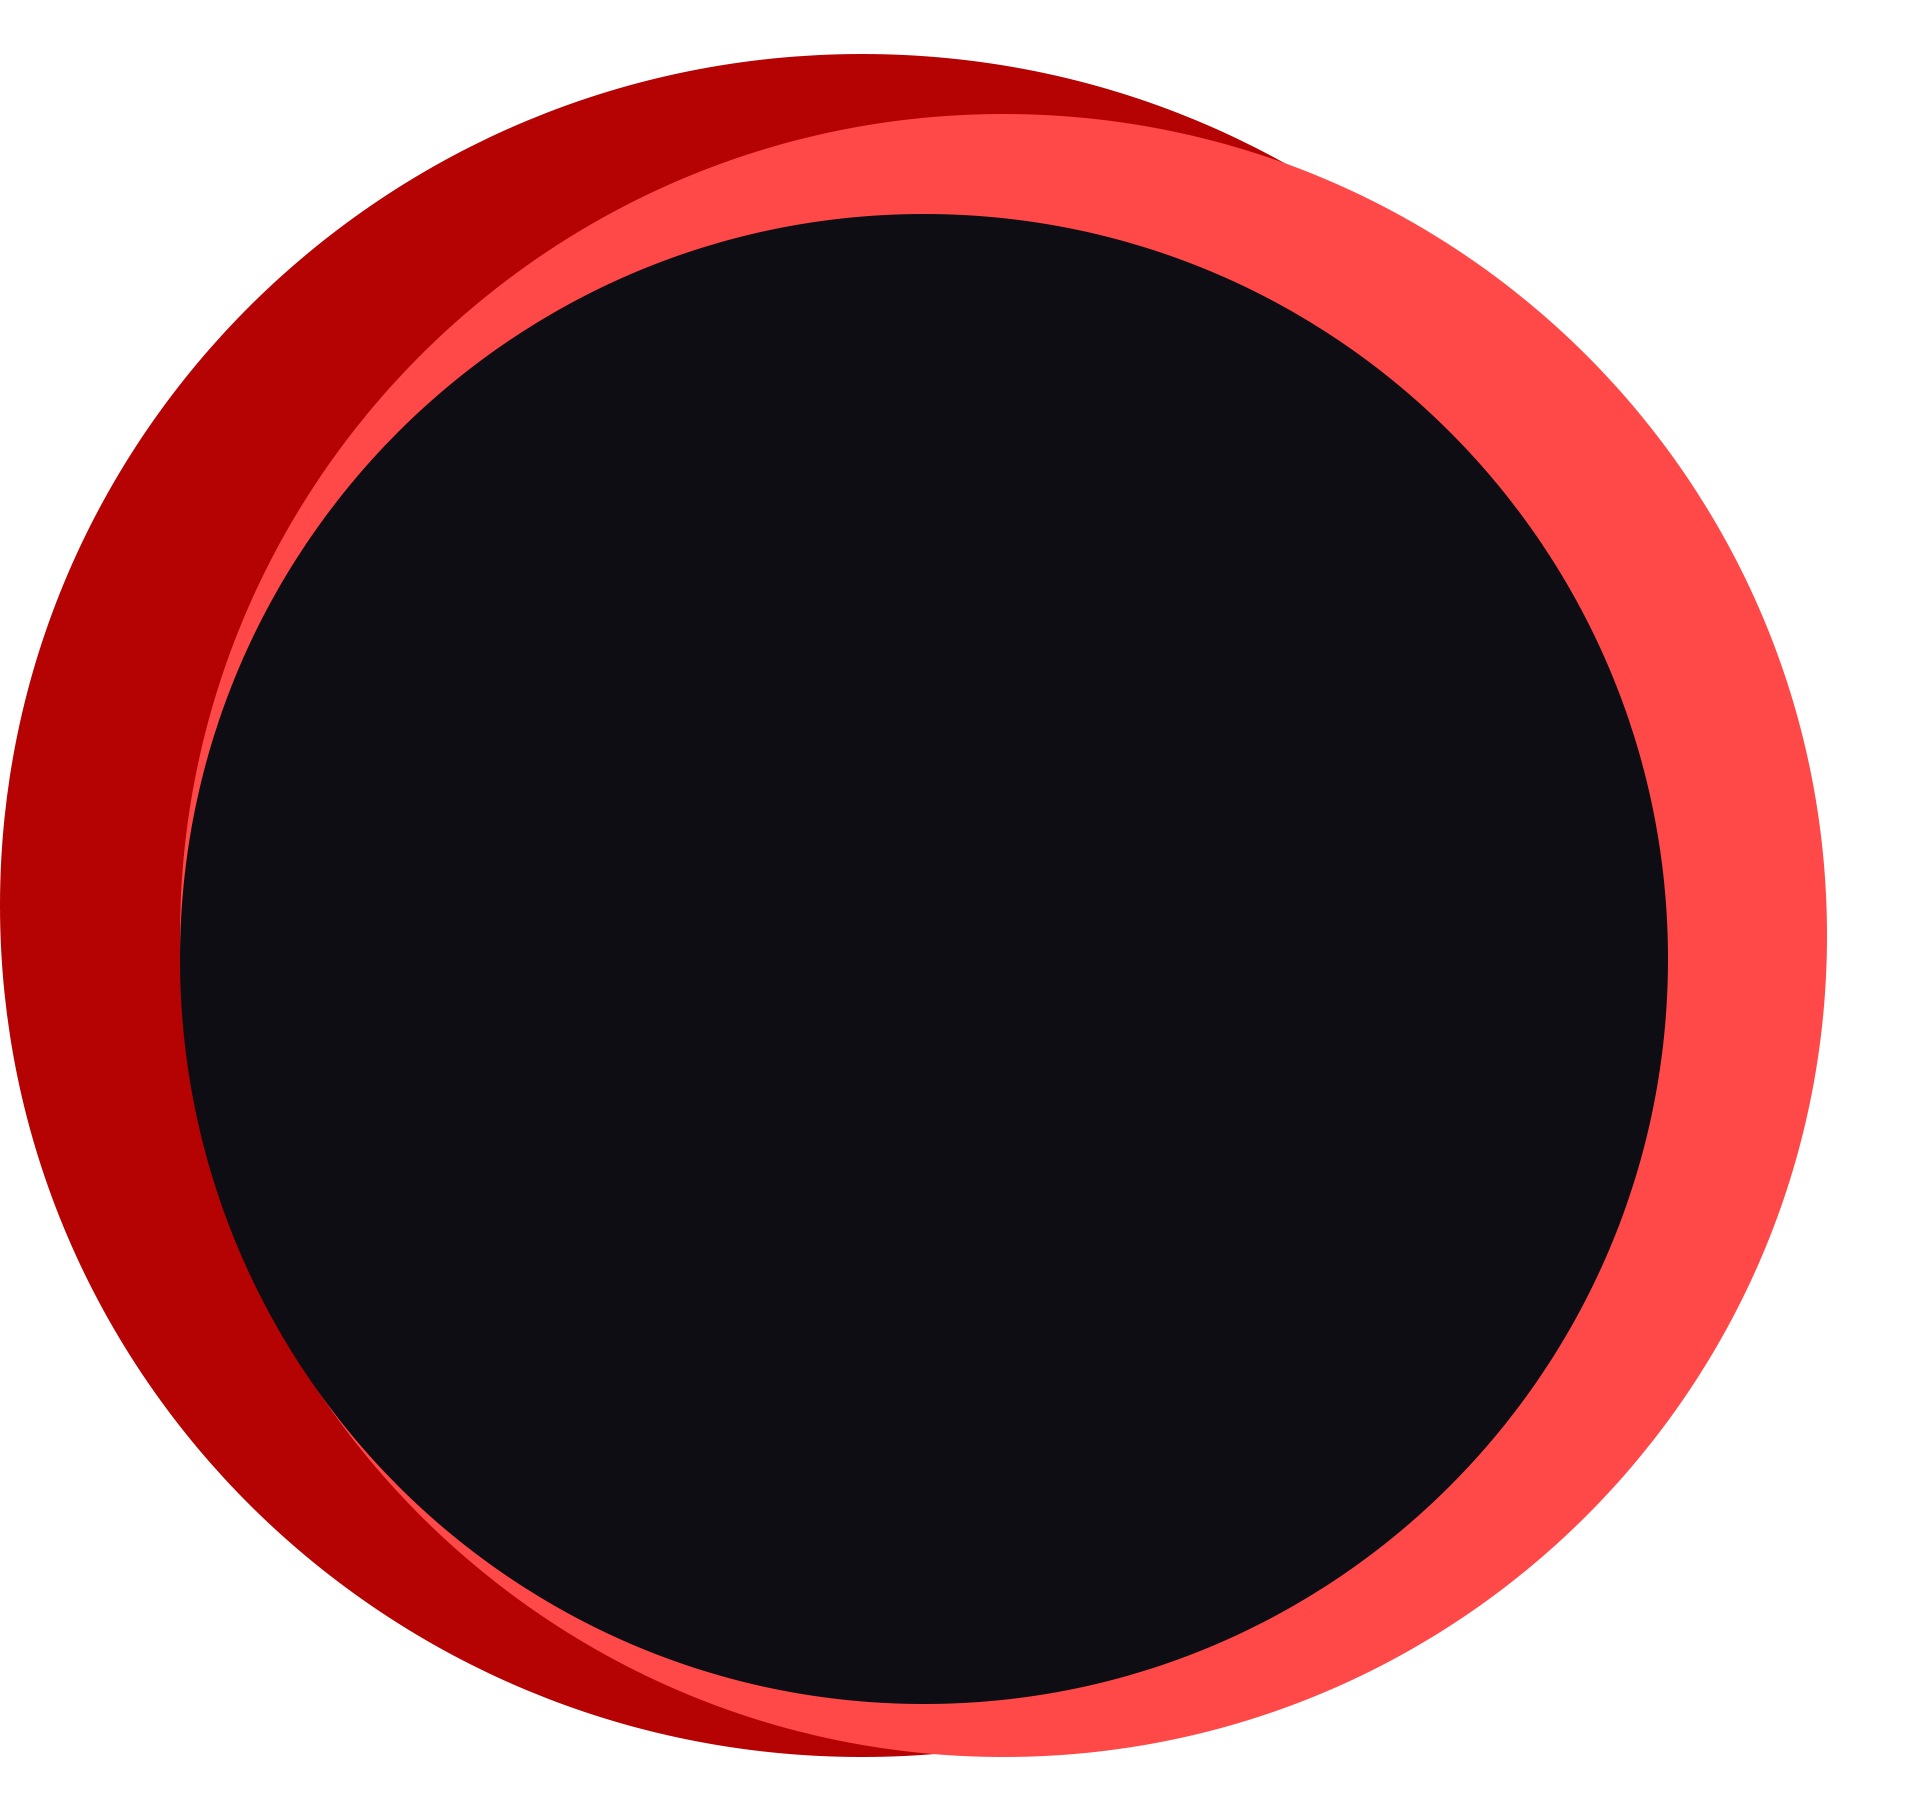
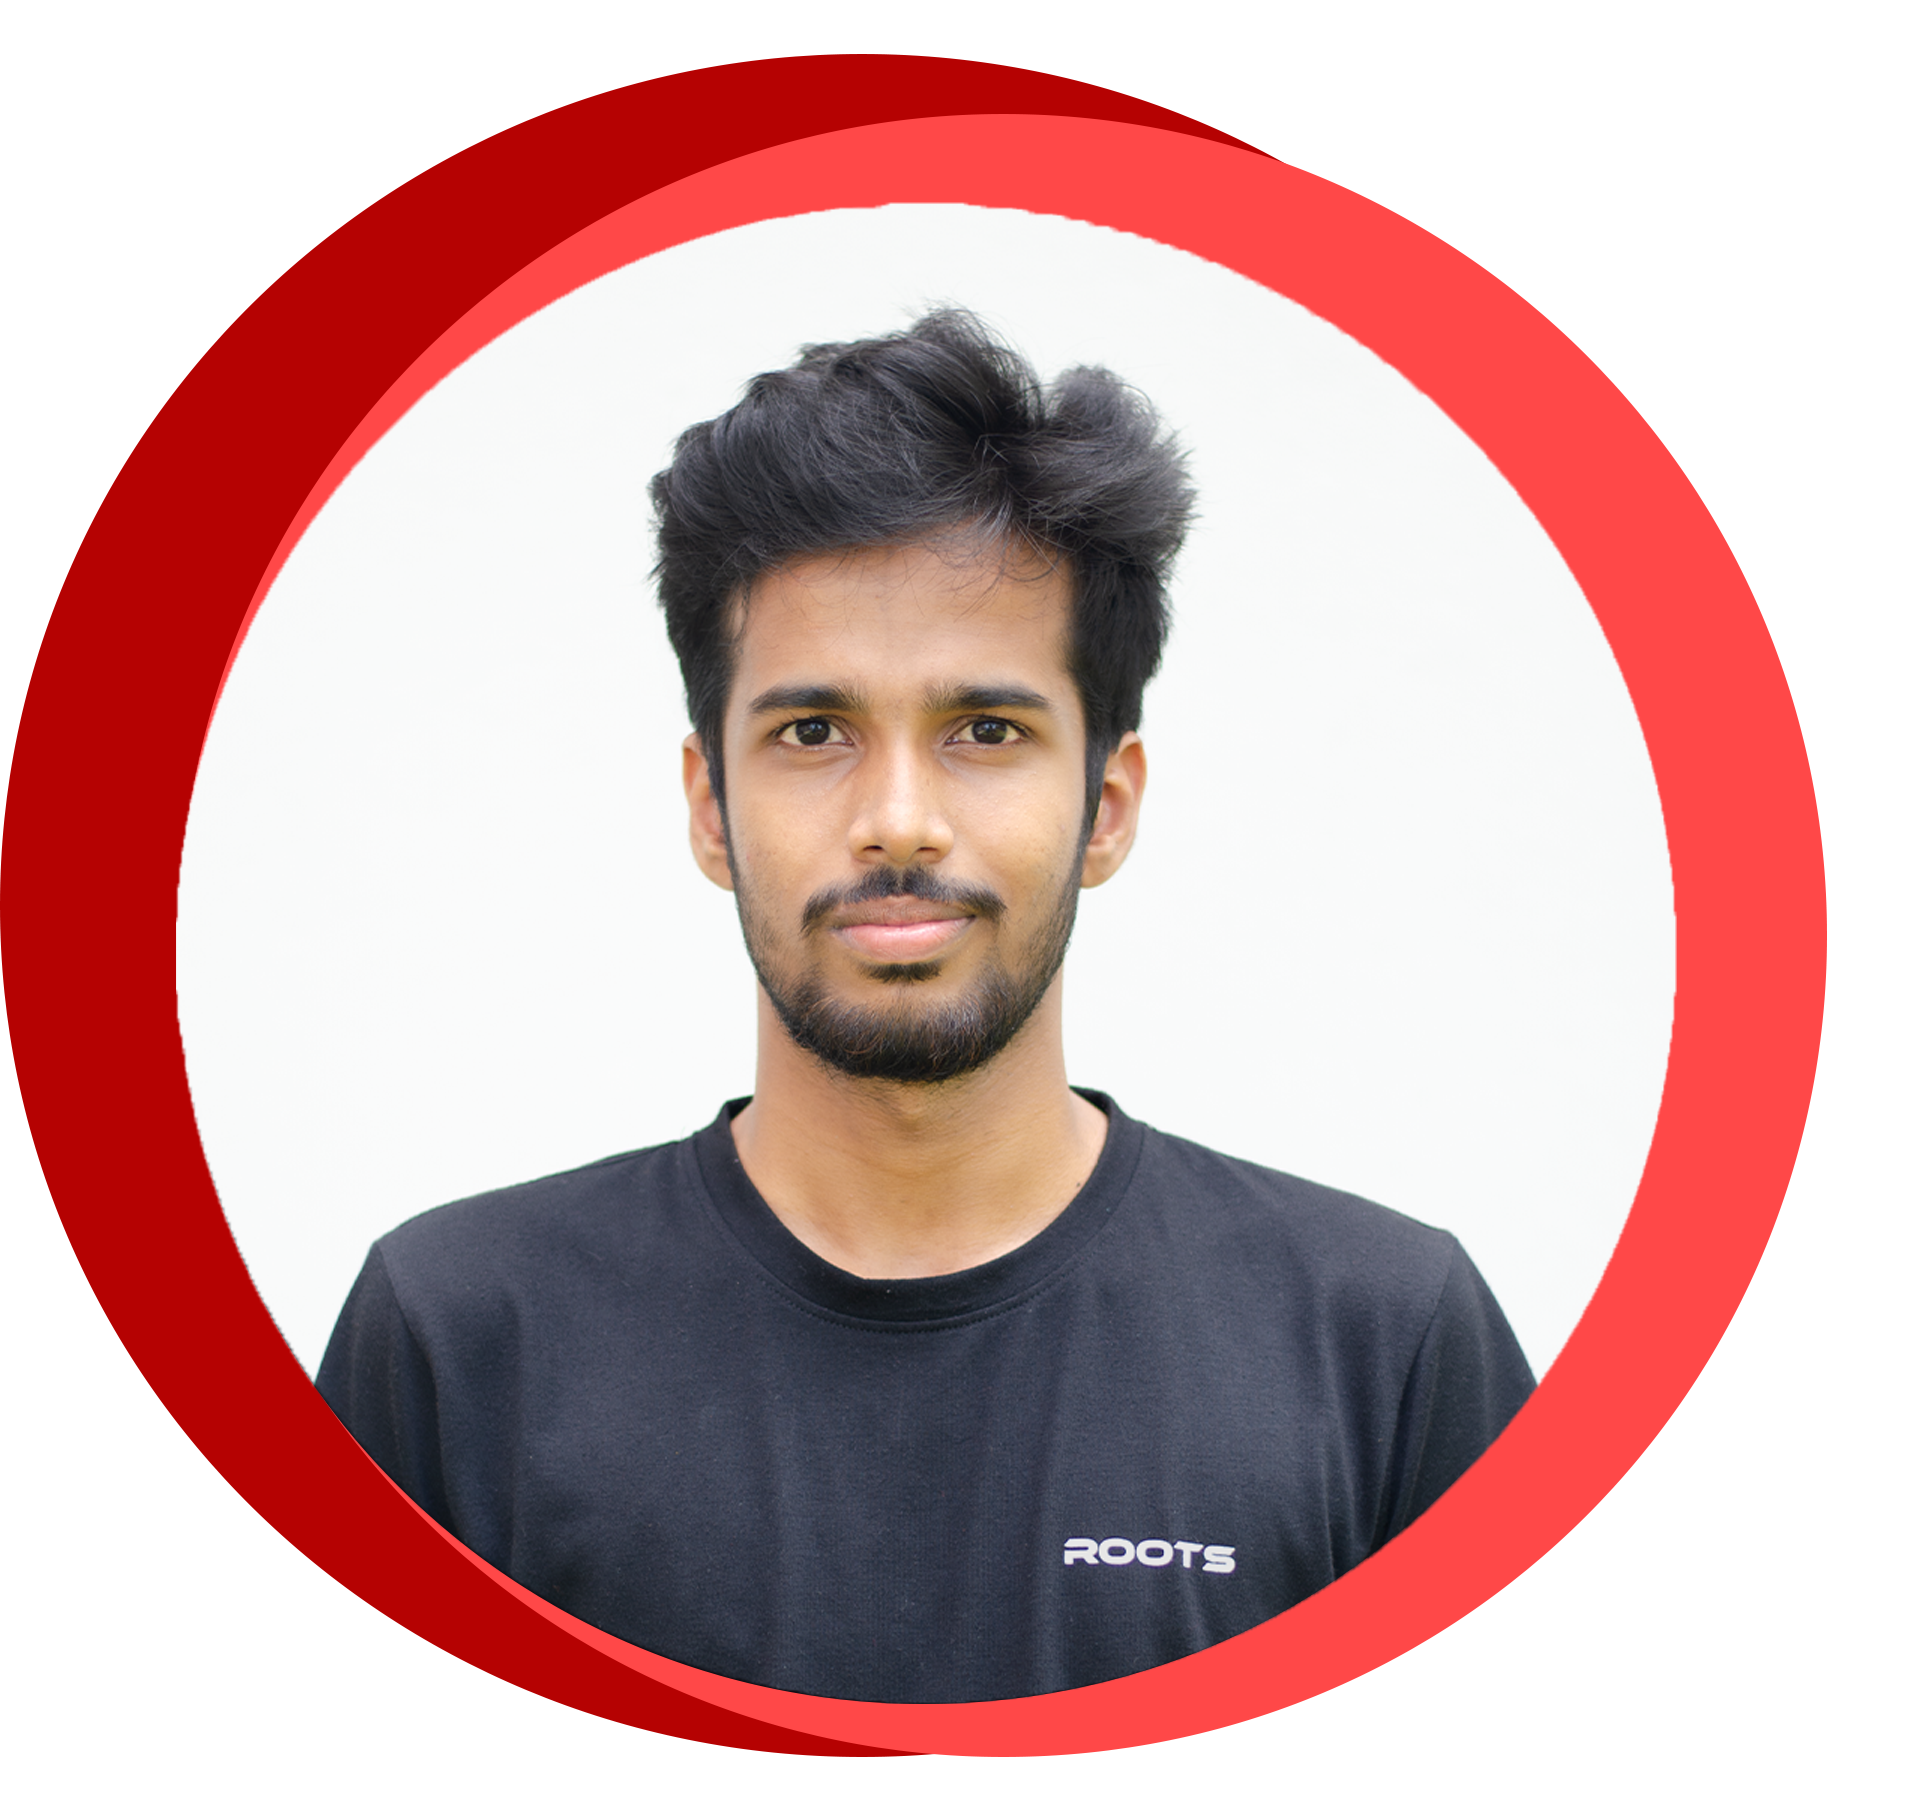
Following upadtes
-added new hero pic
-added new about-hero pic
-service descriptions updated

diff --git a/index.html b/index.html
@@ -6,7 +6,7 @@
     <meta http-equiv="X-UA-Compatible" content="IE=edge">
     <meta name="viewport" content="width=device-width, initial-scale=1.0">
     <title>My portfolio</title>
-    <link rel="stylesheet" href="/src/css/style.css">
+    <link rel="stylesheet" href="./src/css/style.css">
     <link rel="stylesheet" href="https://cdnjs.cloudflare.com/ajax/libs/font-awesome/4.7.0/css/font-awesome.min.css">
 
 </head>
@@ -42,7 +42,7 @@
                 <i href="#" class="fa fa-download"></i>
             </button>
         </div>
-        <img src="/src/img/Men.png" alt="profilepic" class="profilePic">
+        <img src="./src/img/hero.webp" alt="profilepic" class="profilePic">
 
     </div>
 
@@ -59,7 +59,7 @@
 
             <div class="aboutRow">
                 <div class="aboutColoumn-1">
-                    <img src="/src/img/aboutBGG.png" alt="aboutBgPic" class="aboutBgPic">
+                    <img src="./src/img/hero-about.webp" alt="aboutBgPic" class="aboutBgPic">
                 </div>
 
 
@@ -114,8 +114,7 @@
                     <div class="service-text">
                         <h3 class="serviceTitle">Web Application Developer</h3>
                         <p class="serviceInfo">
-                            dishan chalana dishan chalana dishan chalana dishan chalana dishan chalana dishan chalana
-                            dishan chalana
+                            Develops and maintains web applications using programming languages and frameworks, with a focus on user experience and functionality.
                         </p>
                     </div>
                 </div>
@@ -126,8 +125,7 @@
                     <div class="service-text">
                         <h3 class="serviceTitle"> Desktop Application Developer</h3>
                         <p class="serviceInfo">
-                            dishan chalana dishan chalana dishan chalana dishan chalana dishan chalana dishan chalana
-                            dishan chalana
+                            Designs and develops desktop applications with expertise in programming languages, user interface, and data management.
                         </p>
                     </div>
                 </div>
@@ -138,8 +136,7 @@
                     <div class="service-text">
                         <h3 class="serviceTitle">Mobile Application Developer</h3>
                         <p class="serviceInfo">
-                            dishan chalana dishan chalana dishan chalana dishan chalana dishan chalana dishan chalana
-                            dishan chalana
+                            Designs and develops mobile applications with expertise in programming languages, user interface, and mobile platform guidelines.
                         </p>
                     </div>
                 </div>
@@ -150,8 +147,7 @@
                     <div class="service-text">
                         <h3 class="serviceTitle">Content Creator</h3>
                         <p class="serviceInfo">
-                            dishan chalana dishan chalana dishan chalana dishan chalana dishan chalana dishan chalana
-                            dishan chalana
+                            Creates gaming content for YouTube, Facebook, Twitch, and other platforms, with expertise in streaming, video editing, and audience engagement.
                         </p>
                     </div>
                 </div>
@@ -162,8 +158,7 @@
                     <div class="service-text">
                         <h3 class="serviceTitle">UI/UX Designer</h3>
                         <p class="serviceInfo">
-                            dishan chalana dishan chalana dishan chalana dishan chalana dishan chalana dishan chalana
-                            dishan chalana
+                            Designs intuitive and visually appealing user interfaces, with a focus on user experience, accessibility, and usability testing.
                         </p>
                     </div>
                 </div>
@@ -174,8 +169,7 @@
                     <div class="service-text">
                         <h3 class="serviceTitle">Post Production</h3>
                         <p class="serviceInfo">
-                            dishan chalana dishan chalana dishan chalana dishan chalana dishan chalana dishan chalana
-                            dishan chalana
+                            Edits and enhances raw footage and audio, adds special effects, and creates the final product for distribution.
                         </p>
                     </div>
                 </div>
@@ -203,28 +197,28 @@
 
                     <div class="skills-item">
                         <div class="skills-dev">
-                            <img src="/src/img/skill-icon/mern.png" class="skillIcon">
+                            <img src="./src/img/skill-icon/mern.png" class="skillIcon">
                             <h3 class="skillsTitle">MERN</h3>
                         </div>
 
                     </div>
                     <div class="skills-item">
                         <div class="skills-dev">
-                            <img src="/src/img/skill-icon/html.png" class="skillIcon">
+                            <img src="./src/img/skill-icon/html.png" class="skillIcon">
                             <h3 class="skillsTitle">HTML</h3>
                         </div>
 
                     </div>
                     <div class="skills-item">
                         <div class="skills-dev">
-                            <img src="/src/img/skill-icon/css.png" class="skillIcon">
+                            <img src="./src/img/skill-icon/css.png" class="skillIcon">
                             <h3 class="skillsTitle">CSS</h3>
                         </div>
 
                     </div>
                     <div class="skills-item">
                         <div class="skills-dev">
-                            <img src="/src/img/skill-icon/cSharp.png" class="skillIcon">
+                            <img src="./src/img/skill-icon/cSharp.png" class="skillIcon">
                             <h3 class="skillsTitle">C#</h3>
                         </div>
 
@@ -245,14 +239,14 @@
 
                     <div class="skills-item">
                         <div class="skills-dev">
-                            <img src="/src/img/skill-icon/figma.png" class="skillIcon">
+                            <img src="./src/img/skill-icon/figma.png" class="skillIcon">
                             <h3 class="skillsTitle">Figma</h3>
                         </div>
 
                     </div>
                     <div class="skills-item">
                         <div class="skills-dev">
-                            <img src="/src/img/skill-icon/xd.png" class="skillIcon">
+                            <img src="./src/img/skill-icon/xd.png" class="skillIcon">
                             <h3 class="skillsTitle">Adobe Xd</h3>
                         </div>
 
@@ -274,28 +268,28 @@
 
                     <div class="skills-item">
                         <div class="skills-dev-3">
-                            <img src="/src/img/skill-icon/photoshop.png" class="skillIcon">
+                            <img src="./src/img/skill-icon/photoshop.png" class="skillIcon">
                             <h3 class="skillsTitle">Adobe Photoshop</h3>
                         </div>
 
                     </div>
                     <div class="skills-item">
                         <div class="skills-dev-3">
-                            <img src="/src/img/skill-icon/ae.png" class="skillIcon">
+                            <img src="./src/img/skill-icon/ae.png" class="skillIcon">
                             <h3 class="skillsTitle">Adobe After Effects </h3>
                         </div>
 
                     </div>
                     <div class="skills-item">
                         <div class="skills-dev-3">
-                            <img src="/src/img/skill-icon/pr.png" class="skillIcon">
+                            <img src="./src/img/skill-icon/pr.png" class="skillIcon">
                             <h3 class="skillsTitle">Adobe Primer Pro</h3>
                         </div>
 
                     </div>
                     <div class="skills-item">
                         <div class="skills-dev-3">
-                            <img src="/src/img/skill-icon/lightroom.png" class="skillIcon">
+                            <img src="./src/img/skill-icon/lightroom.png" class="skillIcon">
                             <h3 class="skillsTitle">Adobe Lightroom</h3>
                         </div>
 
@@ -391,7 +385,7 @@
                 <div class="col-item-projects">
                     <div class="projects-item">
                         <div class="projectsdev">
-                            <img src="/src/img/projects/weatherly.png" class="projectsIcon">
+                            <img src="./src/img/projects/weatherly.png" class="projectsIcon">
 
                             <div class="project-text-area">
                                 <h3>Weatherly</h3>
@@ -403,7 +397,7 @@
 
                     <div class="projects-item">
                         <div class="projectsdev">
-                            <img src="/src/img/projects/ticket-ordering-system.png" class="projectsIcon">
+                            <img src="./src/img/projects/ticket-ordering-system.png" class="projectsIcon">
                             <div class="project-text-area">
                                 <h3>Ticket ordering System</h3>
                                 <p>A C# project that allows users to purchase and manage tickets for events and
@@ -414,7 +408,7 @@
 
                     <div class="projects-item">
                         <div class="projectsdev">
-                            <img src="/src/img/projects/foodsha.png" class="projectsIcon">
+                            <img src="./src/img/projects/foodsha.png" class="projectsIcon">
                             <div class="project-text-area">
                                 <h3>FOODSHA</h3>
                                 <p>Food Sharing App: A platform that connects food donors with people in need, reducing
@@ -430,7 +424,7 @@
                     <div class="col-item-projects">
                         <div class="projects-item">
                             <div class="projectsdev">
-                                <img src="/src/img/projects.png" class="projectsIcon">
+                                <img src="./src/img/projects.png" class="projectsIcon">
 
                                 <div class="project-text-area">
                                     <h3>Sample </h3>
@@ -443,7 +437,7 @@
 
                         <div class="projects-item">
                             <div class="projectsdev">
-                                <img src="/src/img/projects.png" class="projectsIcon">
+                                <img src="./src/img/projects.png" class="projectsIcon">
                                 <div class="project-text-area">
                                     <h3>HTML</h3>
                                     <p>dishan chalana dishan chalana dishan chalana dishan chalana dishan</p>
@@ -453,7 +447,7 @@
 
                         <div class="projects-item">
                             <div class="projectsdev">
-                                <img src="/src/img/projects.png" class="projectsIcon">
+                                <img src="./src/img/projects.png" class="projectsIcon">
                                 <div class="project-text-area">
                                     <h3>HTML</h3>
                                     <p>dishan chalana dishan chalana dishan chalana dishan chalana dishan</p>

diff --git a/src/css/style.css b/src/css/style.css
@@ -108,7 +108,7 @@ nav ul li a {
 
 .homeServices {
     margin-top: 10px;
-    font-size: 50px;
+    font-size: 90px;
     max-width: 400px;
     
 }
